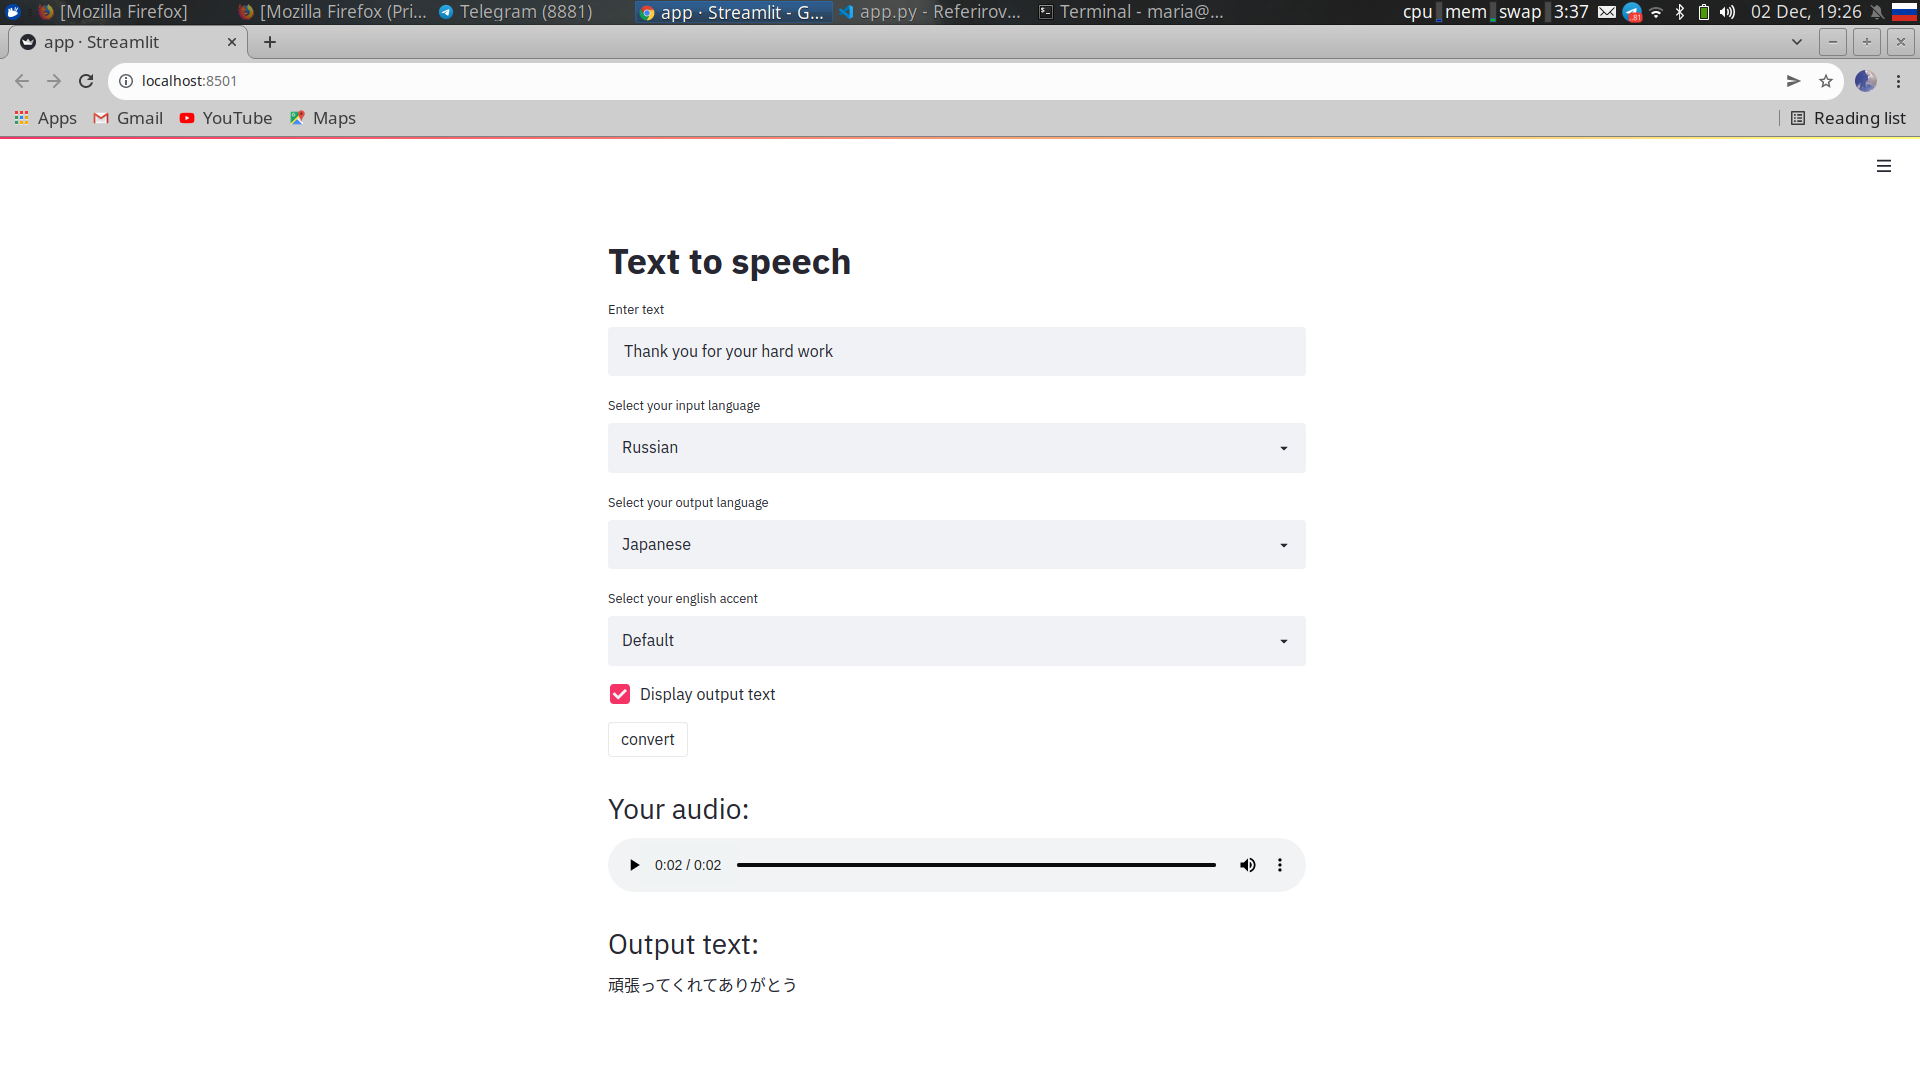
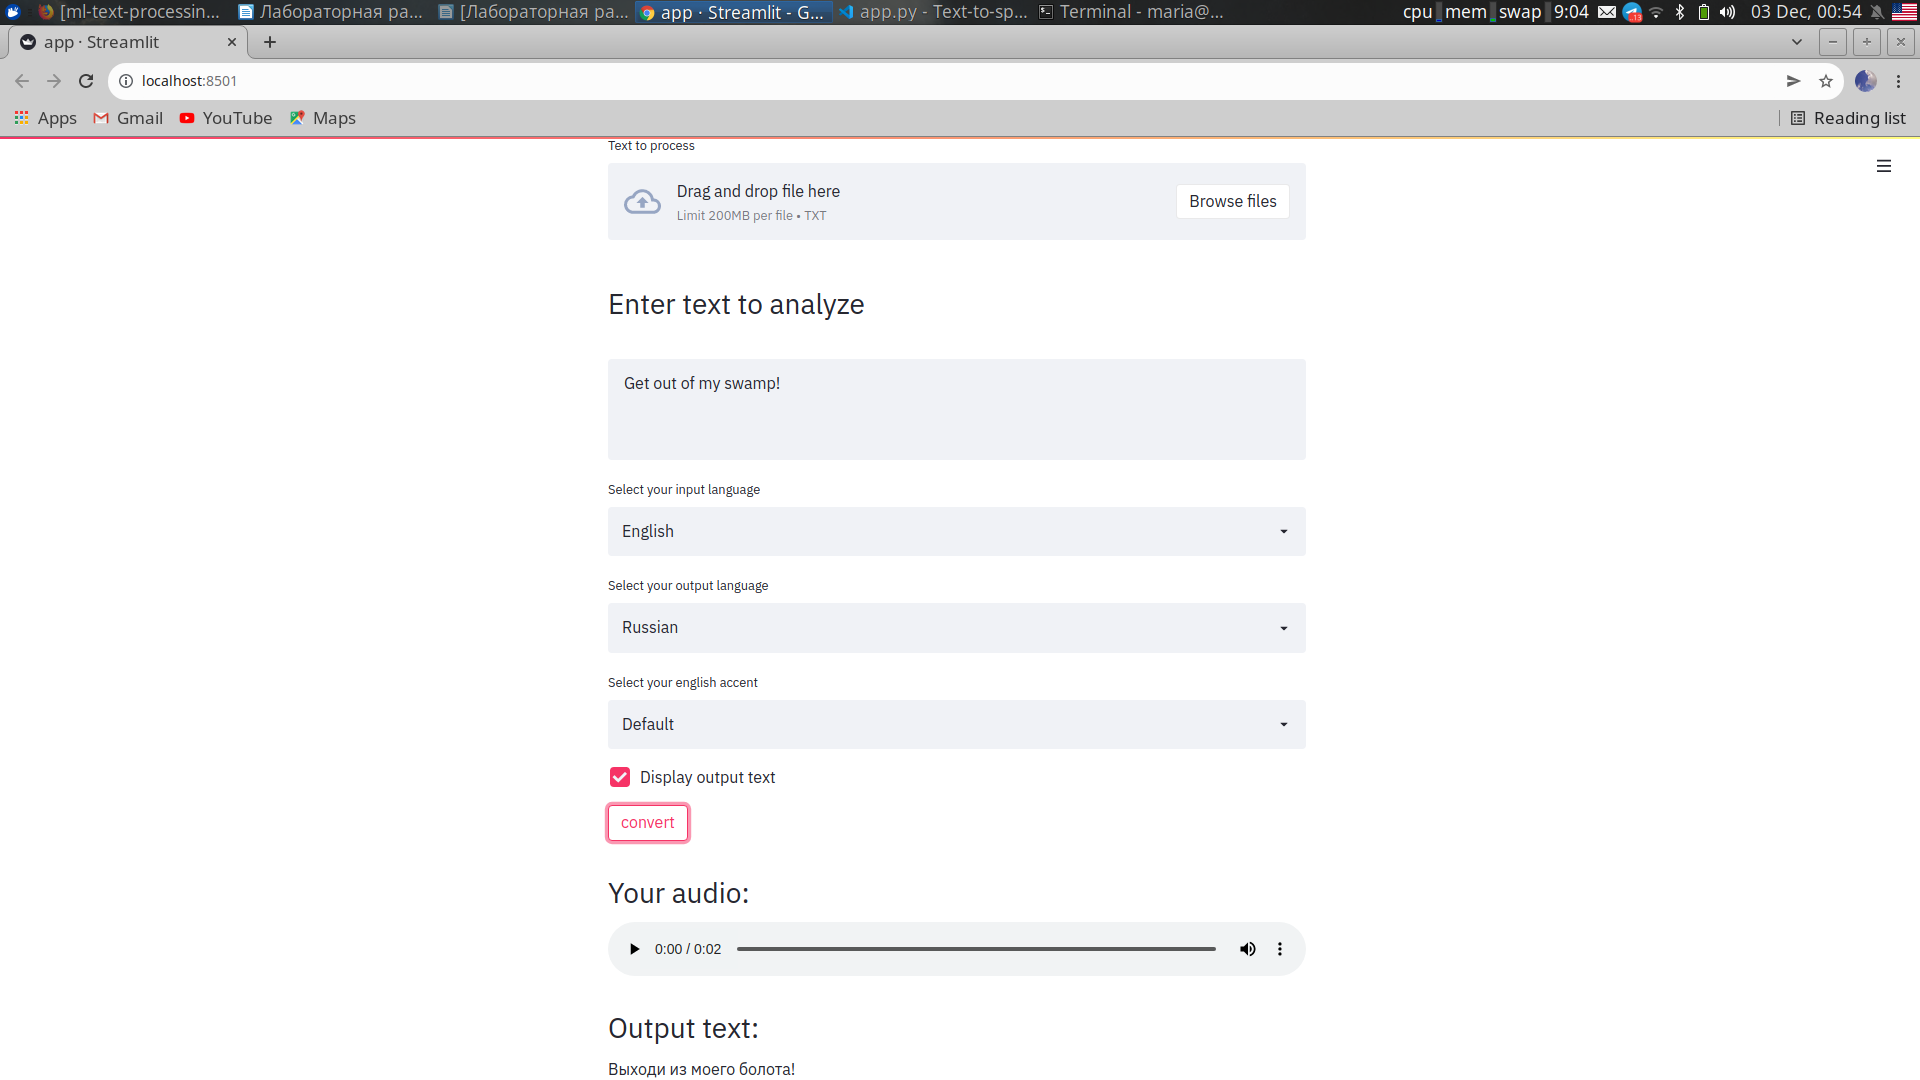
will, stop shaking pear

diff --git a/Text-to-speech/app.py b/Text-to-speech/app.py
@@ -15,7 +15,17 @@ except:
 st.title("Text to speech")
 translator = Translator()
 
-text = st.text_input("Enter text")
+uploaded_file = st.file_uploader('Text to process',type=['txt'])
+if uploaded_file is not None:
+    if uploaded_file.name[-3:] == 'txt':
+        text = uploaded_file.read().decode('utf-8')
+else:
+    with open("sample.txt", "r") as f:
+        text = f.read()
+
+st.header("Enter text to analyze")
+text = st.text_area("", text)
+
 in_lang = st.selectbox(
     "Select your input language",
     ("English", "Russian", "German", "Chinese", "Japanese"),
